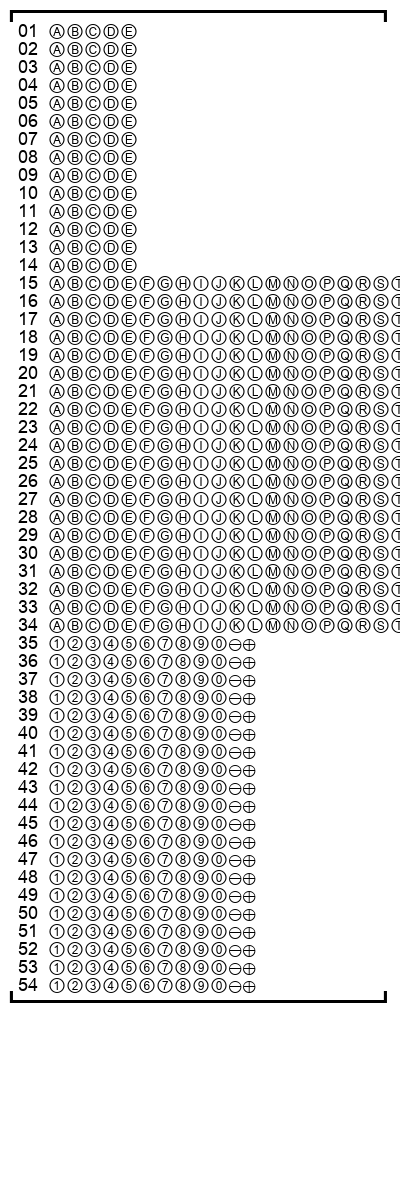
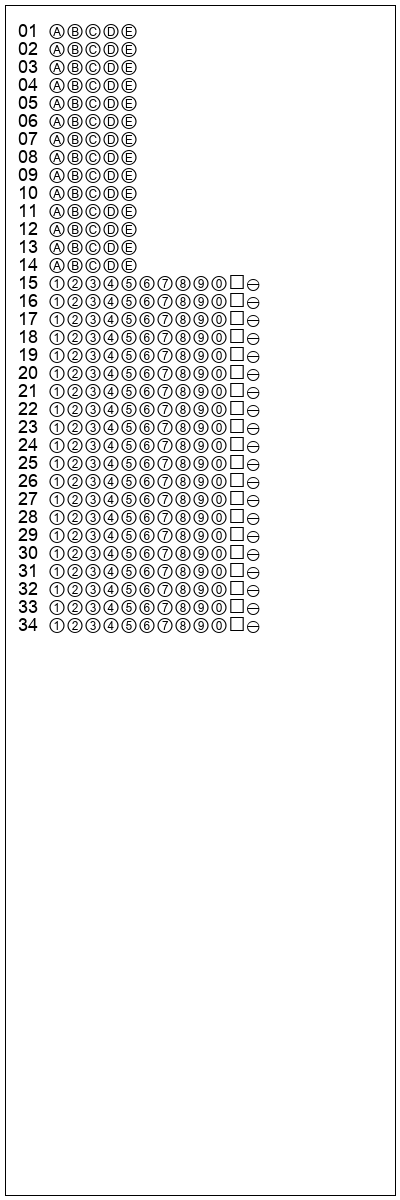
TEST

diff --git a/check.py b/check.py
@@ -2,12 +2,13 @@
 # use imutils for four_point_transform
 # matplotlib for drawing
 import cv2
+import numpy as np
 import matplotlib.pyplot as plt
 import imutils
 from imutils.perspective import four_point_transform
 
 width1 = 400
-height1 = 1200
+height1 = 600
 
 
 def display(image):
@@ -16,10 +17,20 @@ def display(image):
     cv2.waitKey (0)  
     cv2.destroyAllWindows()  
 
+def auto_canny(image, sigma=0.33):
+	# compute the median of the single channel pixel intensities
+	v = np.median(image)
+	# apply automatic Canny edge detection using the computed median
+	lower = int(max(0, (1.0 - sigma) * v))
+	upper = int(min(255, (1.0 + sigma) * v))
+	edged = cv2.Canny(image, lower, upper)
+	# return the edged image
+	return edged
+
 ### Picture Preprocess
 # Read Picture 
-image = cv2.imread('Gray_100_1.jpg')
-display(image)
+image = cv2.imread('draw.jpg')
+# display(image)
 
 
 # Convert into gray Picture 
@@ -30,14 +41,20 @@ blurred = cv2.GaussianBlur(gray, (3,3), 0)
 blurred = cv2.adaptiveThreshold(blurred,255,cv2.ADAPTIVE_THRESH_MEAN_C,cv2.THRESH_BINARY,51,2)
 # Add padding
 blurred = cv2.copyMakeBorder(blurred,5,5,5,5,cv2.BORDER_CONSTANT,value=(255,255,255))
-
-display(blurred)
+# display(blurred)
 
 
 
 ### Edge Detection
-# BMP is easy to edge check
-edged = cv2.Canny(blurred, 255, 255)
+# Print edged
+edged = auto_canny(blurred)
+cv2.imshow("Edges", edged)
+cv2.waitKey(0)
+# display(edged)
+
+
+
+
 cnts = cv2.findContours(edged, cv2.RETR_EXTERNAL,cv2.CHAIN_APPROX_SIMPLE)
 cnts = cnts[0] if imutils.is_cv2() else cnts[1]
 docCnt = None
@@ -47,8 +64,10 @@ if len(cnts) > 0 :
     cnts = sorted(cnts, key=cv2.contourArea, reverse=True)
     # find approximate outline
     for c in cnts :
+        # epsilon = 0.1*cv2.arcLength(cnt,True)
+        # approx = cv2.approxPolyDP(cnt,epsilon,True)
         peri = cv2.arcLength(c, True)
-        approx = cv2.approxPolyDP(c, 0.02 * peri, True)
+        approx = cv2.approxPolyDP(c, 0.01*peri, True)
         # if find four, Complete
         if len(approx) == 4 :
             docCnt = approx
@@ -59,12 +78,17 @@ newimage = image.copy()
 for i in docCnt :
     cv2.circle(newimage, (i[0][0],i[0][1]), 5, (0,0,255), -1)
 
-display(newimage)
+# display(newimage)
+
+
 
 
 # Reshape, four_point_transform
+sample = four_point_transform(image, docCnt.reshape(4,2))
 paper = four_point_transform(image, docCnt.reshape(4,2))
 warped = four_point_transform(gray, docCnt.reshape(4,2))
+# warped = four_point_transform(gray, np.array([[0,0],[0,1200],[400,0],[400,1200]]))
+print(docCnt.reshape(4,2))
 # display(paper)
 # display(warped)
 
@@ -73,19 +97,23 @@ warped = four_point_transform(gray, docCnt.reshape(4,2))
 # Resize into standard width & height
 # gray to BMP
 thresh = cv2.adaptiveThreshold(warped,255,cv2.ADAPTIVE_THRESH_MEAN_C,cv2.THRESH_BINARY,53,2)
+# thresh = cv2.adaptiveThreshold(image,255,cv2.ADAPTIVE_THRESH_MEAN_C,cv2.THRESH_BINARY,53,2)
 # Resize picture which is possible to be used
 thresh = cv2.resize(thresh, (width1,height1), cv2.INTER_LANCZOS4)
 paper = cv2.resize(paper, (width1,height1), cv2.INTER_LANCZOS4)
 warped = cv2.resize(warped, (width1,height1), cv2.INTER_LANCZOS4)
 # Mean Filter
 ChQImg = cv2.blur(thresh, (23,23))
-ChQImg = cv2.threshold(ChQImg, 100,225, cv2.THRESH_BINARY)[1]
+ChQImg = cv2.threshold(ChQImg, 130,225, cv2.THRESH_BINARY)[1]
+display(ChQImg)
 
 cnts = cv2.findContours(ChQImg, cv2.RETR_TREE, cv2.CHAIN_APPROX_SIMPLE)
 cnts = cnts[0] if imutils.is_cv2() else cnts[1]
+Answer = [(0,0)]
 for c in cnts :
     (x,y,w,h) = cv2.boundingRect(c)
-    if (w>60 & h>20) and y>900 and y<2000:
+    print(x,y,w,h)
+    if (w>=5 and h>=5) and y>15 and y<500:
         M = cv2.moments(c)
         cX = int(M["m10"] / M["m00"])
         cY = int(M["m01"] / M["m00"])
@@ -93,5 +121,11 @@ for c in cnts :
         cv2.circle(paper, (cX,cY), 7, (255,255,255), -1)
         Answer.append((cX,cY))
 
+display(sample)
+for (a,b) in Answer :
+    print(a,b)
+    cv2.circle(sample, (a,b), 5, (0,0,255), -1)
+display(sample)
+# display(cnts)
 
 # Judge the Answer

diff --git a/model.py b/model.py
@@ -4,9 +4,12 @@ EN  = ['Ⓐ','Ⓑ','Ⓒ','Ⓓ','Ⓔ','Ⓕ','Ⓖ','Ⓗ','Ⓘ','Ⓙ','Ⓚ','Ⓛ','
 
 from PIL import Image, ImageDraw, ImageFont
 
+# x,y,w,h = cv2.boundingRect(cnt)
+# cv2.rectangle(img,(x,y),(x+w,y+h),(0,255,0),2)
+
 class Model():
 
-    def __init__(self,width=400, height=1200, total_quest=10, font_size=18, font_color=(0,0,0,255)) :
+    def __init__(self,width=400, height=600, total_quest=10, font_size=18, font_color=(0,0,0,255)) :
         self.count = 0
         self.width = width
         self.height = height
@@ -14,7 +17,8 @@ class Model():
         self.font_size = font_size
         self.font_color = font_color
         self.font = ImageFont.truetype("unicode.ttf", self.font_size, encoding="unic")
-        self.canvas = Image.new( "RGBA", (self.width,self.height) )
+        # self.canvas = Image.new( "RGBA", (self.width,self.height) )
+        self.canvas = Image.new( "RGBA", (self.width,self.height),'white' )
 
     # Input the option list and get num of them
     def __option__(self,list,option_num):
@@ -47,15 +51,11 @@ class Model():
         self.canvas.save( "test.jpg" )
 
 
-    def border(self,offset=0):
-        up,down = '',''
-        block = int((self.width - (2*offset))/ (self.font_size/1.5))
-        up += '┏' + '━'*(block) + '┓' + '\n'
-        down += '┗' + '━'*(block) + '┛' + '\n'
-        assert (self.count+3)*self.font_size <= self.height, \
-            'Too many questions in this card, Please adjust the size.'
-        self.drawing(up, location=(5 ,0 ) )
-        self.drawing(down,location=(5, (self.count + 1)*self.font_size))
+    def border(self,offset=5):
+        draw = ImageDraw.Draw( self.canvas )
+        draw.rectangle([offset,offset,self.width-offset,self.height-offset],outline=(0,0,0))
+        # self.canvas.save( "test.png", "PNG" )
+        self.canvas.save( "test.jpg" )
         
         
     def setAnswer(self):
@@ -63,8 +63,8 @@ class Model():
 
 model = Model()
 model.question(14,5)
-model.question(20,20)
-model.question(20,12,type='NUM')
+# model.question(20,20)
+# model.question(20,12,type='NUM')
 # model.question(2,2,type='ENL')
 # model.question(6,7,type='NUM')
 # model.question(2,17,type='EN')
